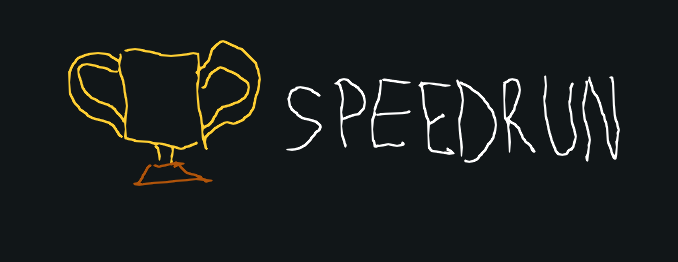
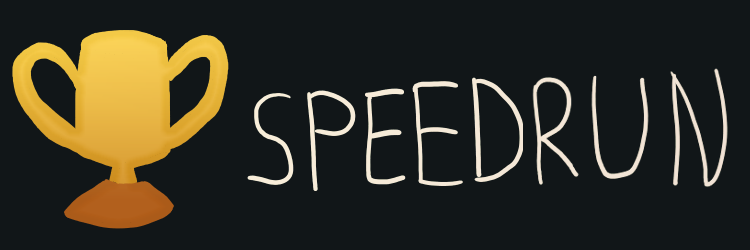
добавление графики

Changed region(s): [[0.0, 0.112, 0.9912, 0.924]]

diff --git a/gamerecords/Styles/DictionaryDefault.xaml b/gamerecords/Styles/DictionaryDefault.xaml
@@ -308,8 +308,8 @@
     </Style>
 
     <Style x:Key="LogoMain" TargetType="Image">
-        <Setter Property="Source" Value="/Images/speedrun.png"/>
-        <Setter Property="Width" Value="100"/>
+        <Setter Property="Source" Value="/Images/speedrun_small.png"/>
+        <Setter Property="Width" Value="30"/>
         <Setter Property="Margin" Value="10,0"/>
     </Style>
 
@@ -370,7 +370,7 @@
     <!--#region SignInPage / SignUpPage-->
     <Style x:Key="LogoSignIn" TargetType="Image">
         <Setter Property="Source" Value="/Images/speedrun.png"/>
-        <Setter Property="Width" Value="200"/>
+        <Setter Property="Width" Value="300"/>
         <Setter Property="Margin" Value="10"/>
     </Style>
 

diff --git a/gamerecords/Styles/DictionaryTask.xaml b/gamerecords/Styles/DictionaryTask.xaml
@@ -266,7 +266,7 @@
     <Style x:Key="LogoMain" TargetType="Image">
         <Setter Property="Source" Value="/Images/speedrun.png"/>
         <Setter Property="Width" Value="100"/>
-        <Setter Property="Margin" Value="50,0"/>
+        <Setter Property="Margin" Value="10,0"/>
     </Style>
 
     <Style x:Key="ButtonMenu" TargetType="Button">
